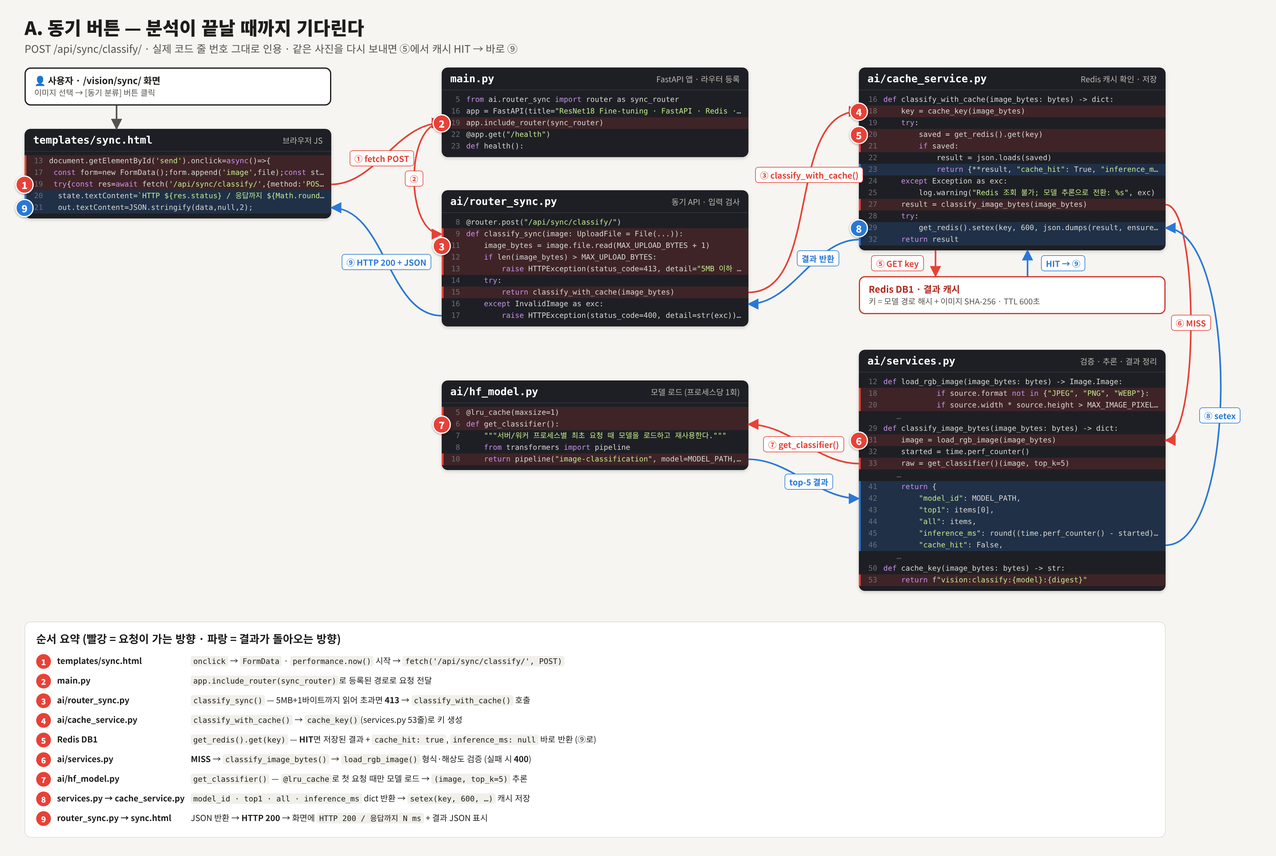
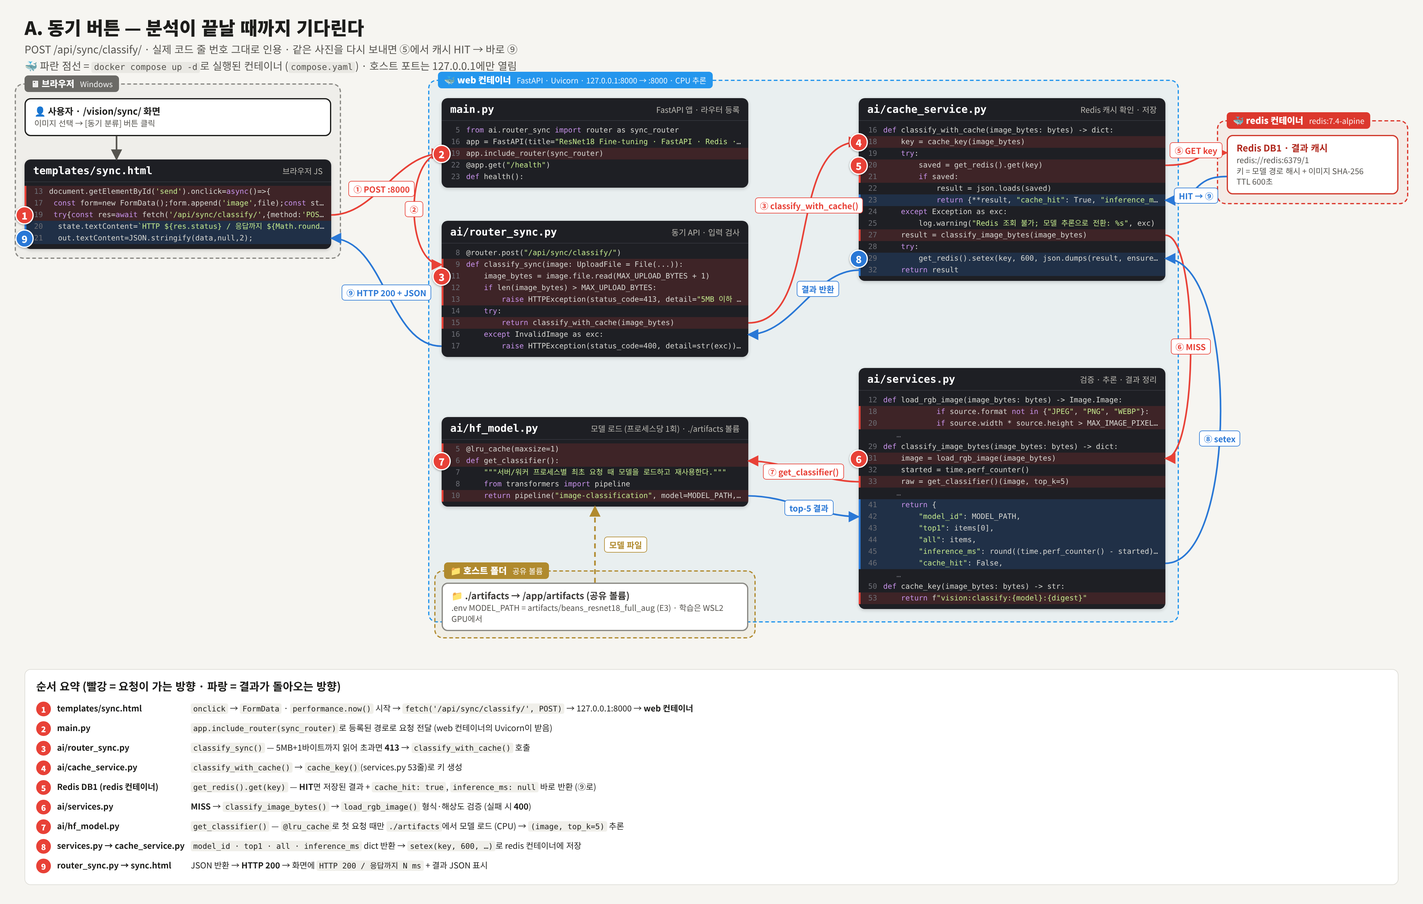
docs: 흐름도에 Docker 컨테이너 표시, 물결표 취소선 오류 수정

diff --git a/reports/08_최종기술보고서.md b/reports/08_최종기술보고서.md
@@ -24,7 +24,7 @@
 | 항목 | 내용 |
 |---|---|
 | 과제 | 교과 9 평가 — 콩잎 이미지 분류 모델 Fine-tuning 및 동기·비동기 서빙 |
-| 기간 | 2026-11-03 ~ 11-05 |
+| 기간 | 2026-11-03 \~ 11-05 |
 | 입력 | JPG / PNG / WEBP, 5MB 이하, 1,200만 픽셀 이하 |
 | 출력 | `angular_leaf_spot`(반점병) / `bean_rust`(녹병) / `healthy`(정상) + 점수 |
 | 데이터 | AI-Lab-Makerere/beans · Train 1,034 / Validation 133 / Test 128 (클래스 비율 약 1:1:1) |
@@ -40,8 +40,8 @@
 | 데이터 | 원본 zip 보존 → `train/val/test` 배치 → 개수·중복·누출 점검 | 중복·누출·라벨 충돌 0, 비이미지 파일 1개 발견·제외 확인 | [산출물 1](01_FineTuning_결과보고서.md) 2장 |
 | 01 기준선 | 제공 코드 그대로 Head-only 학습(E1), 동기 API 연결 | Val 0.767 · ImageNet 라벨 → 콩잎 라벨 전환 확인 | 산출물 1 |
 | 02 통합 | Redis 캐시 · Celery · PostgreSQL · Docker Compose | 동기/비동기, 캐시 HIT/MISS, DB 기록, worker 정지·Redis 장애·복구까지 확인 | [산출물 2](02_시스템_아키텍처.md)·[3](03_API_명세서.md)·[4](04_DB_구조_작업이력.md)·[5](05_AI버튼_처리흐름.md)·[7](07_기능테스트_오류분석.md) |
-| 개선 실험 | E2 Full Fine-tuning(가이드 B 설정: 동결 해제 + lr 0.00005), E3 = E2 + 증강만 추가 | Val 0.970 / 0.993 → **사전 규칙으로 E3 선택** | 산출물 1 3~6장 |
-| 최종 평가 | 평가 도구로 Val 재현 확인 → **E3를 Test에 1회** | Test **0.953** | 산출물 1 7~8장 |
+| 개선 실험 | E2 Full Fine-tuning(가이드 B 설정: 동결 해제 + lr 0.00005), E3 = E2 + 증강만 추가 | Val 0.970 / 0.993 → **사전 규칙으로 E3 선택** | 산출물 1 3\~6장 |
+| 최종 평가 | 평가 도구로 Val 재현 확인 → **E3를 Test에 1회** | Test **0.953** | 산출물 1 7\~8장 |
 | 서비스 반영 | `.env` 교체 → web·worker 재생성 → 응답·DB로 확인 | job 8부터 `model_id` E3 | 산출물 1 11-2 |
 | 성능 측정 | 동기/비동기 × MISS/HIT 5회, 워밍업 분리 | 캐시 −91%, 비동기 접수 −57% | [산출물 6](06_성능비교_보고서.md) |
 | 오답 분석 | Grad-CAM, OpenCV HSV, 보조 규칙 시뮬레이션 | 남은 오답 = 녹병↔반점병 혼동, 색 규칙 효과 없음 | 본 문서 6장 |
@@ -133,7 +133,7 @@
 | healthy (정상) | 44 | 0.0020 | **0.0068** | 0.0148 | 20 |
 
 - 반점병은 병반이 크고 뚜렷해 면적비가 높았지만, **녹병과 정상은 중앙값이 거의 같았다.** 녹병의 작은 돌기는 256×256 축소에서 잘 잡히지 않고, 정상 잎에서도 손·흙·잎 구멍이 병반 후보로 잡혔다.
-- 색조(H) 중앙값도 세 클래스가 19~20으로 같아 **색조로 두 질병을 나눌 수 없었다.**
+- 색조(H) 중앙값도 세 클래스가 19\~20으로 같아 **색조로 두 질병을 나눌 수 없었다.**
 - E3가 healthy 0.95로 틀린 `bean_rust_val.8`은 병반 면적비 0.0014로, **모델과 색 규칙 모두 병반을 보지 못한 사례**다.
 - 방법상 한계: HSV 색 범위는 소수 샘플 화면을 눈으로 보며 정했다. 그래서 HSV 결과는 참고용이며 서비스 판단에 쓰지 않는다.
 
@@ -167,7 +167,7 @@
 | 학습 범위 밖 입력 거르기 | "콩잎이 아님" 판정 (잎 면적비 하한 또는 별도 이진 분류기) | 고양이 사진 → bean_rust 0.525 | 콩잎/비콩잎 검증 세트 구축 |
 | CNN + ML 융합 | CNN 점수 + HSV·Contour 특징 → RandomForest 보조 분류 | 현재 HSV 특징은 녹병·정상 구분력이 낮음 | Train 내부 교차검증으로 특징 생성 |
 | ORB / SIFT | 반점 질감의 국소 특징 | 색보다 질감 차이가 클 가능성 | Val에서 특징점 매칭 품질 비교 |
-| 반복 실험 | 시드 3~5개로 E2·E3 재학습 | 증강 효과가 1회 실행으로는 불확실 | 평균 ± 표준편차 비교 |
+| 반복 실험 | 시드 3\~5개로 E2·E3 재학습 | 증강 효과가 1회 실행으로는 불확실 | 평균 ± 표준편차 비교 |
 
 ## 7. 성능 요약
 
@@ -181,7 +181,7 @@
 | 비동기 HIT | 10.11 ms (접수) | 127.64 ms | 생략 |
 
 - 비동기는 접수가 빠를 뿐 결과 확인은 동기보다 95ms 느리다 (조회 간격 0.1초 영향). **추론이 빨라진 것이 아니다.**
-- 첫 요청(cold)은 모델 로딩 때문에 2.2~3.0초. 워밍업은 비교에서 제외했다.
+- 첫 요청(cold)은 모델 로딩 때문에 2.2\~3.0초. 워밍업은 비교에서 제외했다.
 - Redis 장애 시 동기 응답 8.06초, 비동기 503까지 20.67초 (Docker DNS 이름 조회 실패).
 - 상세: [산출물 6](06_성능비교_보고서.md)
 
@@ -211,7 +211,7 @@
 | `image_jobs` 상태·결과 확인 | ✅ `done` · `queued` · `failed` 실제 관찰 |
 | 동기 HTTP / 비동기 접수 / 비동기 완료 시간 분리 | ✅ `timings.csv` |
 | 캐시 HIT/MISS 동등 조건 비교 | ✅ 같은 이미지끼리, 실제 `cache_hit`로 판정 |
-| 산출물 1~8 + README + 증빙·원본 데이터 | ✅ |
+| 산출물 1\~8 + README + 증빙·원본 데이터 | ✅ |
 | 샘플 수치를 실제 결과로 교체 | ✅ 모든 수치는 `reports/data` 원본과 대조 |
 | 개선 기술의 구현/미구현 명시 | ✅ 6장 상태 열 |
 | `.env`·데이터·모델 공개 저장소 미업로드 | ✅ `git check-ignore`로 확인 |
@@ -235,7 +235,7 @@
 | 5 | DB | `started_at`, `finished_at` 추가 → 대기 시간과 처리 시간 분리 | job 3의 2분 16초를 나눌 수 없음 |
 | 6 | 입력 검증 | 학습 범위 밖 이미지 거르기 | 고양이 → bean_rust 0.525 |
 | 7 | 보안 | DB 비밀번호를 `compose.yaml`에서 `.env`로 분리, worker 비root 실행 (`--uid`) | 평문 비밀번호, Celery `SecurityWarning` |
-| 8 | 실험 | 새 검증 데이터 확보 또는 Train 교차검증, 시드 3~5개 반복 | 증강·R2 근거 부족 · 개선 효과는 Test가 아닌 새 데이터로 검증 |
+| 8 | 실험 | 새 검증 데이터 확보 또는 Train 교차검증, 시드 3\~5개 반복 | 증강·R2 근거 부족 · 개선 효과는 Test가 아닌 새 데이터로 검증 |
 
 ## 12. 산출물 지도
 
@@ -244,14 +244,14 @@
 | 1 | [Fine-tuning 결과보고서](01_FineTuning_결과보고서.md) | 데이터 점검, E1·E2·E3, Val 재현, Test 1회, 모델 교체 |
 | 2 | [시스템 아키텍처](02_시스템_아키텍처.md) | Docker Compose 4서비스, Redis DB1/2/3 역할, 실행 환경 |
 | 3 | [API 명세서](03_API_명세서.md) | 6개 API, 검증 규칙, 실제 응답 JSON, 오류 계약 |
-| 4 | [DB 구조·작업이력](04_DB_구조_작업이력.md) | DDL, 상태 전이, job 1~21 이력 |
+| 4 | [DB 구조·작업이력](04_DB_구조_작업이력.md) | DDL, 상태 전이, job 1\~21 이력 |
 | 5 | [AI 버튼 처리흐름](05_AI버튼_처리흐름.md) | 동기·비동기 처리 흐름도(파일·함수·줄 번호), 시퀀스도, 코드 연결표 |
 | 6 | [성능 비교](06_성능비교_보고서.md) | `timings.csv`, 캐시·비동기 해석, 장애 시 지연 |
 | 7 | [기능 테스트·오류](07_기능테스트_오류분석.md) | 실환경 27건, 모의 2건, 오류 12건 |
-| 8 | 본 문서 + [README](../README.md) | 종합, 개선 기술 ①~④, 재현 안내 |
-| 9 (추가) | [성능 분석·개선 보고서](09_성능분석_개선보고서.md) | 문제 P1~P5별 원인 → 개선 → 재검증 정리 |
+| 8 | 본 문서 + [README](../README.md) | 종합, 개선 기술 ①\~④, 재현 안내 |
+| 9 (추가) | [성능 분석·개선 보고서](09_성능분석_개선보고서.md) | 문제 P1\~P5별 원인 → 개선 → 재검증 정리 |
 
-- 원본 데이터: `reports/data/` · 그림: `reports/figures/` (`scripts/make_figures.py`로 재생성) · 실행 캡처: `reports/evidence/` (단계별 폴더 `00_env` ~ `08_failure_test`)
+- 원본 데이터: `reports/data/` · 그림: `reports/figures/` (`scripts/make_figures.py`로 재생성) · 실행 캡처: `reports/evidence/` (단계별 폴더 `00_env` \~ `08_failure_test`)
 - 안내 인포그래픽의 산출물 이름과 대응: "실행 화면 및 기능 검증" → 5·7, "성능 향상 방법 제안서" → 본 문서 6장
 
 ## 13. 평가 시연 순서 (평가 가이드 0장)

diff --git a/reports/09_성능분석_개선보고서.md b/reports/09_성능분석_개선보고서.md
@@ -1,6 +1,6 @@
 # 산출물 9 (추가). 성능 분석 · 개선 보고서 — 무엇이 약했고, 어떻게 고쳤나
 
-> 작성일 2026-11-04 · 범위: 산출물 1~8의 실제 결과를 다시 분석해 **문제 → 원인 → 개선 → 재검증** 순서로 정리
+> 작성일 2026-11-04 · 범위: 산출물 1\~8의 실제 결과를 다시 분석해 **문제 → 원인 → 개선 → 재검증** 순서로 정리
 > 근거 데이터: `reports/data/` (학습 리포트·평가 JSON·`timings.csv`·HSV 분석) · 실행 캡처: `reports/evidence/`
 
 ## 요약
@@ -190,7 +190,7 @@ python -m training.finetune_aug --data dataset --output artifacts/beans_resnet18
 | 정상 | **0.0068** | 20 |
 
 - 잎(초록) 안의 갈색 픽셀 비율을 쟀더니 **녹병과 정상이 거의 같았다.** 녹병 돌기는 작아서 면적이 작고, 정상 잎에도 잎맥·그림자·흙이 갈색으로 잡힌다.
-- 색조도 세 클래스가 19~20으로 같아 **색만으로는 두 질병을 나눌 수 없다.**
+- 색조도 세 클래스가 19\~20으로 같아 **색만으로는 두 질병을 나눌 수 없다.**
 
 ### ③ 보조 규칙 시뮬레이션 (Validation으로 설계·평가, 라벨은 바꾸지 않고 "확인 필요"만 표시)
 
@@ -208,7 +208,7 @@ python -m training.finetune_aug --data dataset --output artifacts/beans_resnet18
 |---|---|---|
 | 작은 녹병 돌기가 224×224 축소에서 약해짐 | 고해상도 입력 또는 잎을 타일로 나눠 분류 | 같은 Val에서 입력 크기만 바꿔 비교 |
 | 녹병 ↔ 반점병 경계 사례 부족 | 혼동 유형 사진 보강 | 녹병 Recall 변화 |
-| 1회 실행 | 시드 3~5개 반복 | 평균 ± 표준편차 |
+| 1회 실행 | 시드 3\~5개 반복 | 평균 ± 표준편차 |
 
 ---
 
@@ -227,7 +227,7 @@ python -m training.finetune_aug --data dataset --output artifacts/beans_resnet18
 |---|---|---|---|
 | 같은 사진도 매번 추론 | 결과를 저장하지 않음 | Redis 캐시(TTL 600초, 키에 모델 경로 해시 포함) → 동기 **−91.3%** | 실측 |
 | 오래 걸리는 작업이 화면을 붙잡음 | 동기는 추론이 끝날 때까지 대기 | Celery 비동기 → **9.12 ms** 만에 job_id 반환. 단, 결과 확인은 동기보다 느림 (조회 간격 0.1초 영향) | 실측 |
-| 첫 요청 2~3초 (cold start) | 모델을 첫 요청 때 불러옴 (`lru_cache`) | 워밍업은 측정에서 분리. 서버 시작 시 미리 불러오기 제안 | 제안 |
+| 첫 요청 2\~3초 (cold start) | 모델을 첫 요청 때 불러옴 (`lru_cache`) | 워밍업은 측정에서 분리. 서버 시작 시 미리 불러오기 제안 | 제안 |
 | Redis 장애 시 지연 | Redis 이름 조회 실패 후 재시도 대기 | 동기 200까지 **8.06초**, 비동기 503까지 **20.67초**, job `failed` 기록 → 복구 후 `done` 확인. 연결 시간 제한 단축·서킷 브레이커 제안 | 실측 · 제안 |
 
 - 비동기는 **접수가 빨라질 뿐 추론이 빨라지는 것이 아니다.** 사용자에게 먼저 응답하고 작업을 뒤에서 처리하는 구조의 이점이다.
@@ -240,10 +240,10 @@ python -m training.finetune_aug --data dataset --output artifacts/beans_resnet18
 |---|---|---|
 | 고양이 사진 (E1) | bean_rust 0.525 | 콩잎이 아니어도 3클래스 중 하나로 답함 |
 | 인터넷 콩잎 사진 A (E3) | bean_rust **0.414** vs healthy **0.410** | 1·2위 점수 차 **0.003**, 사실상 판단 불가 |
-| 인터넷 콩잎 사진 B (E3) | angular_leaf_spot 0.537 vs healthy 0.299 | 데이터셋 사진(0.93~1.00)보다 확신 낮음 |
+| 인터넷 콩잎 사진 B (E3) | angular_leaf_spot 0.537 vs healthy 0.299 | 데이터셋 사진(0.93\~1.00)보다 확신 낮음 |
 
 - 원인: 학습 데이터는 우간다 밭에서 잎 한 장을 가까이 찍은 사진이다. 다른 장소·카메라·구도·화면 캡처 사진은 **분포가 달라** 확신이 떨어진다. 모델에는 "모르겠음" 선택지가 없다.
-- 증빙: `evidence/05_web_api/web_sync_non_leaf_cat.png`, `evidence/05_web_api/web_sync_internet_1.png`, `web_sync_internet_2.png`
+- 증빙: `evidence/05_web_api/web_sync_non_leaf_cat.png` (인터넷 사진 2장은 웹 화면에서 직접 관찰했고, 사진 저작권 때문에 캡처는 저장소에 올리지 않았다)
 
 | 다음 개선 | 방법 | 확인 |
 |---|---|---|

diff --git a/reports/05_AI버튼_처리흐름.md b/reports/05_AI버튼_처리흐름.md
@@ -12,8 +12,9 @@
 
 ![동기 버튼 처리 흐름](figures/flow_sync.png)
 
-- 그림의 코드는 저장소의 실제 파일과 **줄 번호까지 같다.** 빨간 번호 ①~⑨를 따라가면 버튼 → API → 캐시 → 추론 → 응답 순서가 된다.
+- 그림의 코드는 저장소의 실제 파일과 **줄 번호까지 같다.** 빨간 번호 ①\~⑨를 따라가면 버튼 → API → 캐시 → 추론 → 응답 순서가 된다.
 - 같은 사진을 다시 보내면 ⑤에서 **캐시 HIT** → ⑥⑦⑧을 건너뛰고 바로 ⑨로 돌아간다 (`cache_hit: true`, `inference_ms: null`).
+- 점선 상자는 **실행 위치**다. 브라우저(Windows)의 요청은 `127.0.0.1:8000`으로 **web 컨테이너**에 들어가고, ②\~⑧의 파이썬 코드는 모두 web 컨테이너 안에서 실행된다. 캐시만 **redis 컨테이너**에 있고, 모델 파일은 호스트의 `./artifacts`를 공유 볼륨으로 읽는다.
 
 <details>
 <summary>시퀀스 다이어그램으로 보기 (Mermaid)</summary>
@@ -55,7 +56,8 @@ sequenceDiagram
 
 ![비동기 버튼 처리 흐름](figures/flow_async.png)
 
-- ①~⑥은 **web 컨테이너**에서 바로 끝나고(HTTP 202), ⑦~⑨는 **worker 컨테이너**가 뒤에서 처리한다 (초록 점선).
+- ①\~⑥은 **web 컨테이너**에서 바로 끝나고(HTTP 202), ⑦\~⑨는 **worker 컨테이너**가 뒤에서 처리한다 (초록 점선).
+- 두 컨테이너는 같은 Docker 이미지로 만든 **다른 프로세스**라 서로 직접 부르지 않는다. **redis 컨테이너(DB2 브로커)**로 job_id를 넘기고, **postgres 컨테이너**에 상태를 기록하며, 업로드 원본은 **공유 볼륨** `./media/jobs`로 주고받는다.
 - 브라우저는 ⑩⑪을 1초마다 반복해 `done` 또는 `failed`가 될 때까지 상태를 조회한다 (최대 60회, [상태조회 중지]를 눌러도 worker 작업은 계속된다).
 
 <details>
@@ -109,8 +111,8 @@ sequenceDiagram
 | 동기 ⑥ | `ai/services.py` | `cache_key()`, `load_rgb_image()`(형식·해상도·디코딩 검증), `classify_image_bytes()`(타이머 시작 → 추론) | `get_classifier()` |
 | 동기 ⑦ | `ai/hf_model.py` | `get_classifier()` — `@lru_cache`, `pipeline("image-classification", model=MODEL_PATH, device=-1)` | `top1`, `all` |
 | 비동기 ①⑥⑩⑪ | `templates/async.html` | `fetch` POST → `check_url`을 `sleep(1000)` 간격으로 최대 60회 조회 | API-03 |
-| 비동기 ②~⑥ | `ai/router_async.py` | `enqueue_classify()` — 검증 → 파일 저장 → `ImageJob(queued)` → `classify_job.delay()` (실패 시 503) | worker |
-| 비동기 ⑦~⑨ | `ai/tasks.py` | `classify_job()` — `running` → `classify_with_cache()` → `done` / 예외 시 `rollback` 후 `failed` | DB |
+| 비동기 ②\~⑥ | `ai/router_async.py` | `enqueue_classify()` — 검증 → 파일 저장 → `ImageJob(queued)` → `classify_job.delay()` (실패 시 503) | worker |
+| 비동기 ⑦\~⑨ | `ai/tasks.py` | `classify_job()` — `running` → `classify_with_cache()` → `done` / 예외 시 `rollback` 후 `failed` | DB |
 | 비동기 ⑩⑪ | `ai/router_async.py` | `get_job()` — 상태별로 `top1`·`all`·`error_message` 노출 (없으면 404) | 화면 |
 
 ## D. 실제 실행 화면으로 확인한 흐름

diff --git a/reports/04_DB_구조_작업이력.md b/reports/04_DB_구조_작업이력.md
@@ -106,13 +106,13 @@ FROM image_jobs ORDER BY id;
 | 7 | done | E1 | angular_leaf_spot | f | 19.41 | — | 웹 화면 polling 로그 |
 | 8 | done | **E3** | bean_rust | t | — | — | **모델 교체 후 첫 비동기** (동기 캐시 재사용) |
 | 9 | done | E3 | (미조회) | f | 2771.32 | 2.94초¹ | 성능 측정 워밍업 (비교 제외) |
-| 10~19 | done | E3 | (미조회) | f×5 / t×5 | 19.07~20.76 / — | — | 성능 측정 비동기 MISS·HIT 각 5회 (`timings.csv`) |
+| 10\~19 | done | E3 | (미조회) | f×5 / t×5 | 19.07\~20.76 / — | — | 성능 측정 비동기 MISS·HIT 각 5회 (`timings.csv`) |
 | **20** | **failed** | E3 | — | — | — | — | **Redis 중지 중 접수** → `작업 큐 등록 실패: Redis 연결을 확인하세요.` |
 | 21 | done | E3 | healthy | f | (미조회) | — | **Redis 복구 후** 정상 처리 (장애 중 캐시 저장 실패로 MISS) |
 
-- ¹ job 9의 2.94초는 측정 스크립트가 잰 접수~done 확인 시간이다 (DB 계산값 아님).
-- 처리 시간(`updated_at − created_at`)은 job 1~5만 DBeaver로 계산했다 (`evidence/06_db/dbeaver_image_jobs_elapsed.png`).
-- job 9~19의 값은 `reports/data/timings.csv`·`timings_warmup.csv`에 원본이 있다.
+- ¹ job 9의 2.94초는 측정 스크립트가 잰 접수\~done 확인 시간이다 (DB 계산값 아님).
+- 처리 시간(`updated_at − created_at`)은 job 1\~5만 DBeaver로 계산했다 (`evidence/06_db/dbeaver_image_jobs_elapsed.png`).
+- job 9\~19의 값은 `reports/data/timings.csv`·`timings_warmup.csv`에 원본이 있다.
 - job 6의 이미지는 `bean_rust_test.20.jpg`로, E1가 **angular_leaf_spot으로 오분류**한 사례다 (E1의 질병 간 혼동).
 
 ### 조회 화면
@@ -120,7 +120,7 @@ FROM image_jobs ORDER BY id;
 | 장면 | 증빙 |
 |---|---|
 | 첫 비동기 HIT·MISS 2행 | `evidence/06_db/db_image_jobs_hit_miss.png` |
-| DBeaver 전체 컬럼 (job 1~5) | `evidence/06_db/dbeaver_image_jobs.png` |
+| DBeaver 전체 컬럼 (job 1\~5) | `evidence/06_db/dbeaver_image_jobs.png` |
 | 처리 시간 계산 쿼리 (job 3 = 2분 16초) | `evidence/06_db/dbeaver_image_jobs_elapsed.png` |
 | E1 → E3 교체 이력 (job 7 / job 8) | `evidence/05_web_api/model_switch_E3_api_db.png` |
 | **failed 행** (job 20) | `evidence/08_failure_test/redis_down_db_failed.png` |

diff --git a/reports/07_기능테스트_오류분석.md b/reports/07_기능테스트_오류분석.md
@@ -1,7 +1,7 @@
 # 산출물 7. 기능 테스트 및 오류 분석 기록서
 
 - 대상: ResNet18 콩잎 분류 서비스 — 01 동기 API(WSL) → 02 Docker Compose(web·worker·Redis·PostgreSQL)
-- 기간: 2026-11-03 ~ 11-04
+- 기간: 2026-11-03 \~ 11-04
 - 판정 원칙
   - **실환경 테스트**(실제 모델·Redis·PostgreSQL·Celery)와 **모의 테스트**(가짜 모델·SQLite·Celery 미사용)를 분리해 기록한다.
   - **기능 판정**(시스템이 설계대로 동작했나)과 **모델 품질 관찰**(예측이 맞았나)을 섞지 않는다.
@@ -29,7 +29,7 @@
 | T-15 | 비동기 접수 | 이미지 업로드 | 202 / job_id | 202 / job_id 1 | PASS | `api_async_202_done_db.png` |
 | T-16 | 비동기 완료 | `GET /api/async/jobs/1/` | 200 / done | 200 / done | PASS | `api_async_202_done_db.png` |
 | T-17 | 웹 비동기 흐름 | `/vision/async/` 업로드 | queued → done 표시 | `접수 17ms, job_id=5` → `상태 done` | PASS | `web_async_1_queued.png`, `web_async_2_done.png` |
-| T-18 | DB 기록 | `image_jobs` 조회 (psql, DBeaver) | 행 생성·상태·결과 | job 1~5 기록, 컬럼 12개 확인 | PASS | `db_image_jobs_hit_miss.png`, `dbeaver_image_jobs.png`, `db_schema.png` |
+| T-18 | DB 기록 | `image_jobs` 조회 (psql, DBeaver) | 행 생성·상태·결과 | job 1\~5 기록, 컬럼 12개 확인 | PASS | `db_image_jobs_hit_miss.png`, `dbeaver_image_jobs.png`, `db_schema.png` |
 | T-19 | 캐시 공유 (web → worker) | 동기로 보낸 이미지를 비동기로 재전송 | worker HIT | job 1 `cache_hit=t` | PASS | `api_async_202_done_db.png` |
 | T-20 | worker 직접 추론 | 캐시에 없는 이미지 비동기 | worker MISS·추론 | job 2 `cache_hit=f`, 2254.13ms | PASS | `db_image_jobs_hit_miss.png` |
 | T-21 | **worker 미실행** | `docker compose stop worker` 후 접수 | 202 + queued 유지 | 202, `queued` 유지 → 재시작 후 `done` (대기 2분 16초) | PASS | `async_worker_stopped_queued.png`, `async_worker_restarted_done.png`, `dbeaver_image_jobs_elapsed.png` |

diff --git a/reports/02_시스템_아키텍처.md b/reports/02_시스템_아키텍처.md
@@ -7,7 +7,7 @@
 
 > **평가 가이드 그림과의 차이 (명시)**
 > 평가 가이드 3장의 구성도는 FastAPI·Celery를 **WSL 가상환경**에서, Redis·PostgreSQL만 Docker에서 실행하는 구조다.
-> 본 프로젝트는 02 교재 22~25번 절차대로 **FastAPI·Celery까지 Docker 컨테이너**로 실행했고, 모든 증빙은 이 구조에서 수집했다.
+> 본 프로젝트는 02 교재 22\~25번 절차대로 **FastAPI·Celery까지 Docker 컨테이너**로 실행했고, 모든 증빙은 이 구조에서 수집했다.
 > `ai/config.py`의 기본값이 `127.0.0.1`이고 `compose.yaml`의 `environment`가 컨테이너 서비스명(`redis`, `postgres`)으로 덮어쓰므로 코드는 두 방식을 모두 지원하지만, **WSL 실행 방식의 02 통합 동작은 이번에 검증하지 않았다.**
 
 ## 1. 구성도
@@ -137,7 +137,7 @@ postgres (pg_isready) ──┘
 
 ## 5. 설계상 주의점
 
-1. **모델은 web과 worker에 각각 한 번씩 로드된다.** 메모리를 두 배로 쓰고, 컨테이너가 새로 시작될 때마다 각자 cold start(약 2.2~3.0초)가 발생한다.
+1. **모델은 web과 worker에 각각 한 번씩 로드된다.** 메모리를 두 배로 쓰고, 컨테이너가 새로 시작될 때마다 각자 cold start(약 2.2\~3.0초)가 발생한다.
 2. **동기 요청은 DB에 기록되지 않는다.** 이력 추적이 필요하면 비동기 경로를 쓰거나 별도 로깅이 필요하다.
 3. **Redis 하나가 캐시·브로커·결과 저장을 모두 담당한다.** Redis 장애 시 비동기 접수가 막히고(503), 동기는 캐시 없이 동작하지만 응답이 수 초 지연된다 (산출물 6·7).
 4. **DB 비밀번호가 `compose.yaml`에 평문으로 있다.** 교재 제공 로컬 실습값이며 127.0.0.1에만 바인딩되어 있으나, 운영 환경에서는 `.env`로 분리해야 한다 (산출물 8 개선 제안).

diff --git a/README.md b/README.md
@@ -66,12 +66,12 @@
 | 1 | [Fine-tuning 결과보고서](reports/01_FineTuning_결과보고서.md) | 데이터 점검 · E1/E2/E3 · Val 선택 · Test 1회 · 모델 교체 |
 | 2 | [시스템 아키텍처](reports/02_시스템_아키텍처.md) | Docker Compose 4서비스 · Redis DB1/2/3 역할 |
 | 3 | [API 명세서](reports/03_API_명세서.md) | 6개 API · 실제 응답 JSON · 400/413/404/503 |
-| 4 | [DB 구조 · 작업이력](reports/04_DB_구조_작업이력.md) | DDL · 상태 전이 · job 1~21 (`failed` 포함) |
+| 4 | [DB 구조 · 작업이력](reports/04_DB_구조_작업이력.md) | DDL · 상태 전이 · job 1\~21 (`failed` 포함) |
 | 5 | [AI 버튼 처리흐름](reports/05_AI버튼_처리흐름.md) | 동기·비동기 처리 흐름도 (파일·함수·줄 번호) · 코드 연결표 |
 | 6 | [성능 비교](reports/06_성능비교_보고서.md) | `timings.csv` · 캐시·비동기 해석 |
 | 7 | [기능 테스트 · 오류](reports/07_기능테스트_오류분석.md) | 실환경 27건 · 모의 2건 · 오류 12건 |
-| 8 | [**최종 기술 보고서**](reports/08_최종기술보고서.md) | 종합 · 개선 기술 ①~④ · 한계 · 개선 제안 |
-| 9 | [성능 분석 · 개선 보고서](reports/09_성능분석_개선보고서.md) | 문제 P1~P5 → 원인 → 개선 → 재검증 |
+| 8 | [**최종 기술 보고서**](reports/08_최종기술보고서.md) | 종합 · 개선 기술 ①\~④ · 한계 · 개선 제안 |
+| 9 | [성능 분석 · 개선 보고서](reports/09_성능분석_개선보고서.md) | 문제 P1\~P5 → 원인 → 개선 → 재검증 |
 
 <details>
 <summary><b>빠른 실행</b> — 데이터 배치 → 학습 → <code>docker compose up</code> (데이터·모델·<code>.env</code>는 저장소에 없음)</summary>

diff --git a/reports/01_FineTuning_결과보고서.md b/reports/01_FineTuning_결과보고서.md
@@ -186,7 +186,7 @@ time python -u -m training.finetune_aug --data dataset --output artifacts/beans_
 |---|---|---:|---:|---:|
 | 질병 → healthy (병을 놓침) | 🔴 높음 (방제 시기 놓침) | **11** | 2 | **1** |
 | healthy → 질병 (오경보) | 🟡 중간 | 4 | 1 | 0 |
-| 질병 ↔ 질병 (병명 혼동) | 🔵 낮음~중간 | 16 | 1 | 0 |
+| 질병 ↔ 질병 (병명 혼동) | 🔵 낮음\~중간 | 16 | 1 | 0 |
 | **합계** | | 31 | 4 | 1 |
 
 ### 6-2. 클래스별 지표 (Validation)
